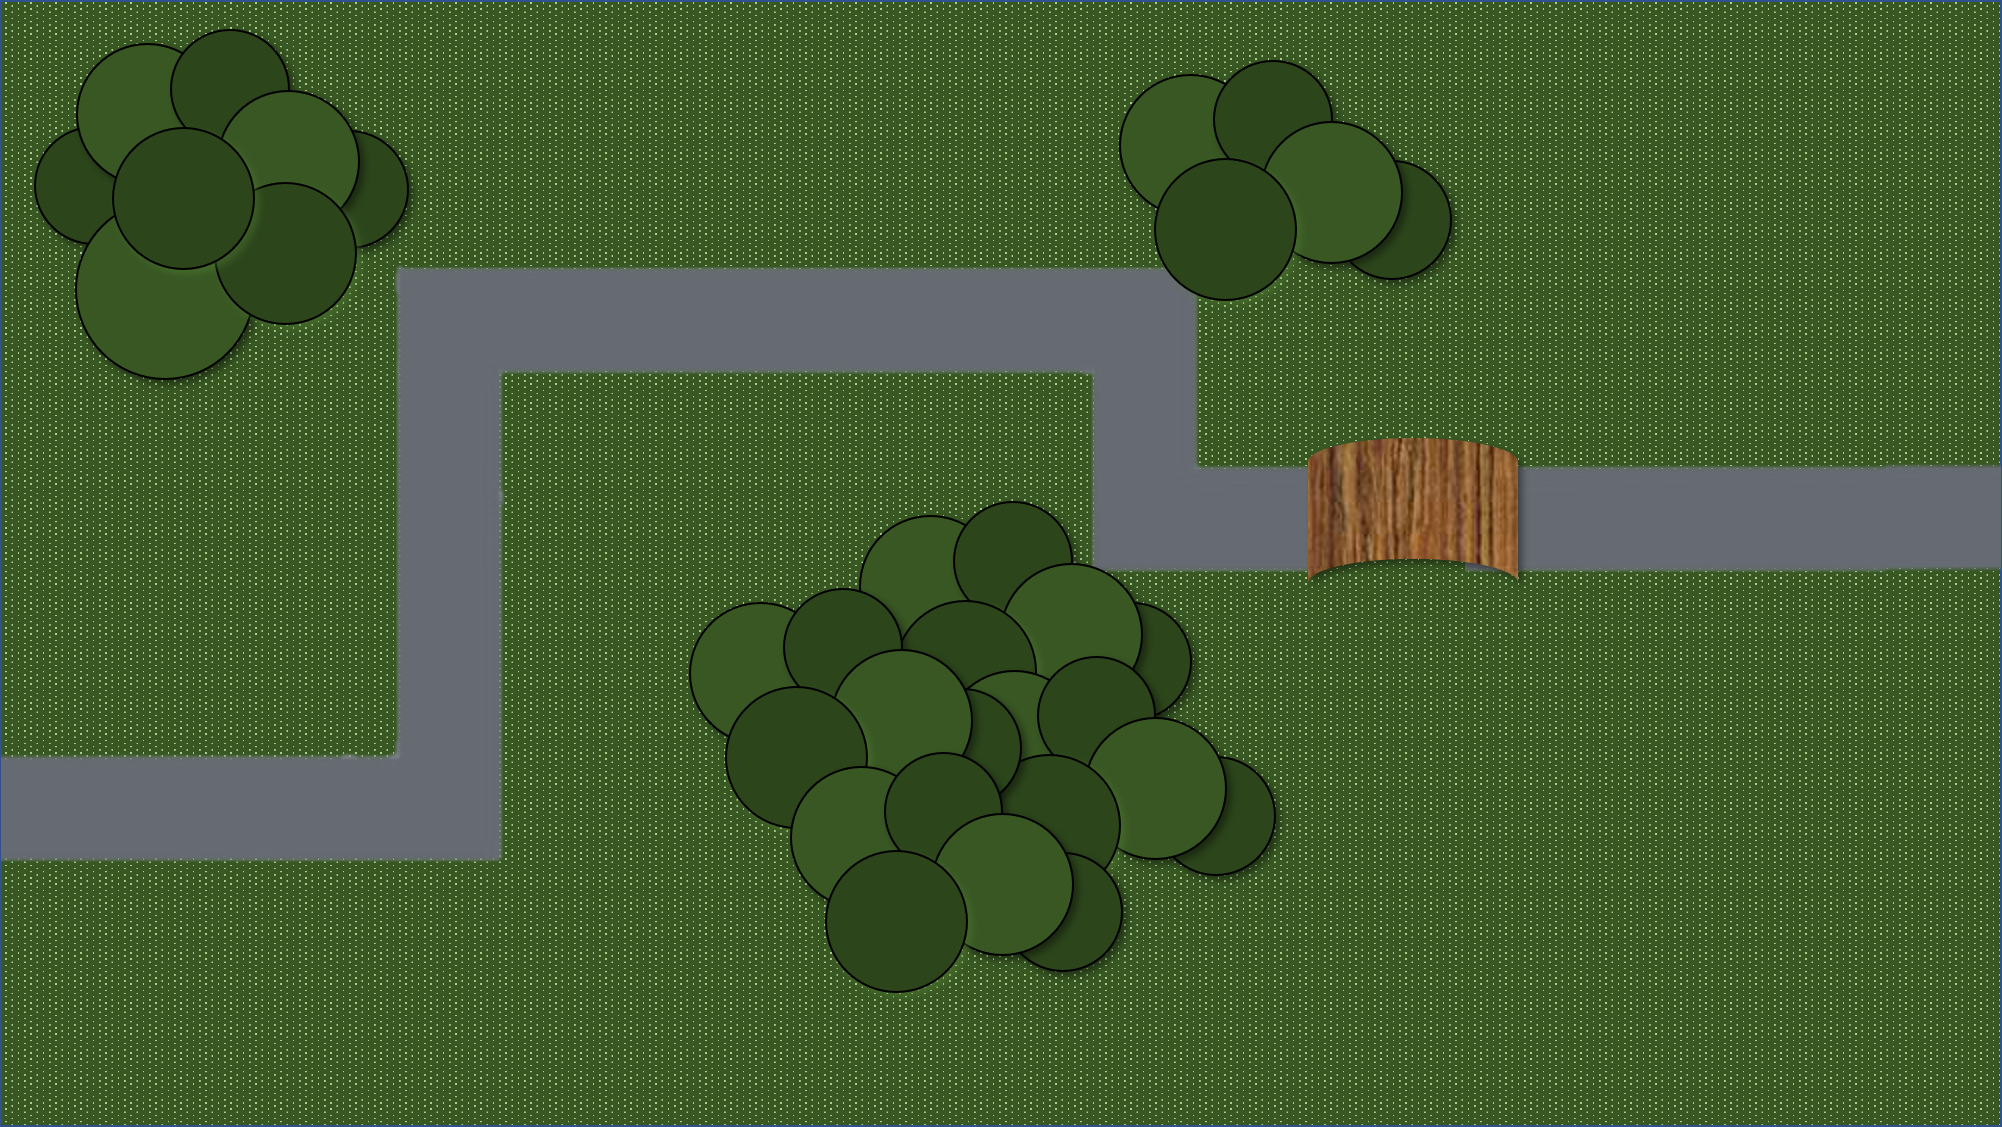
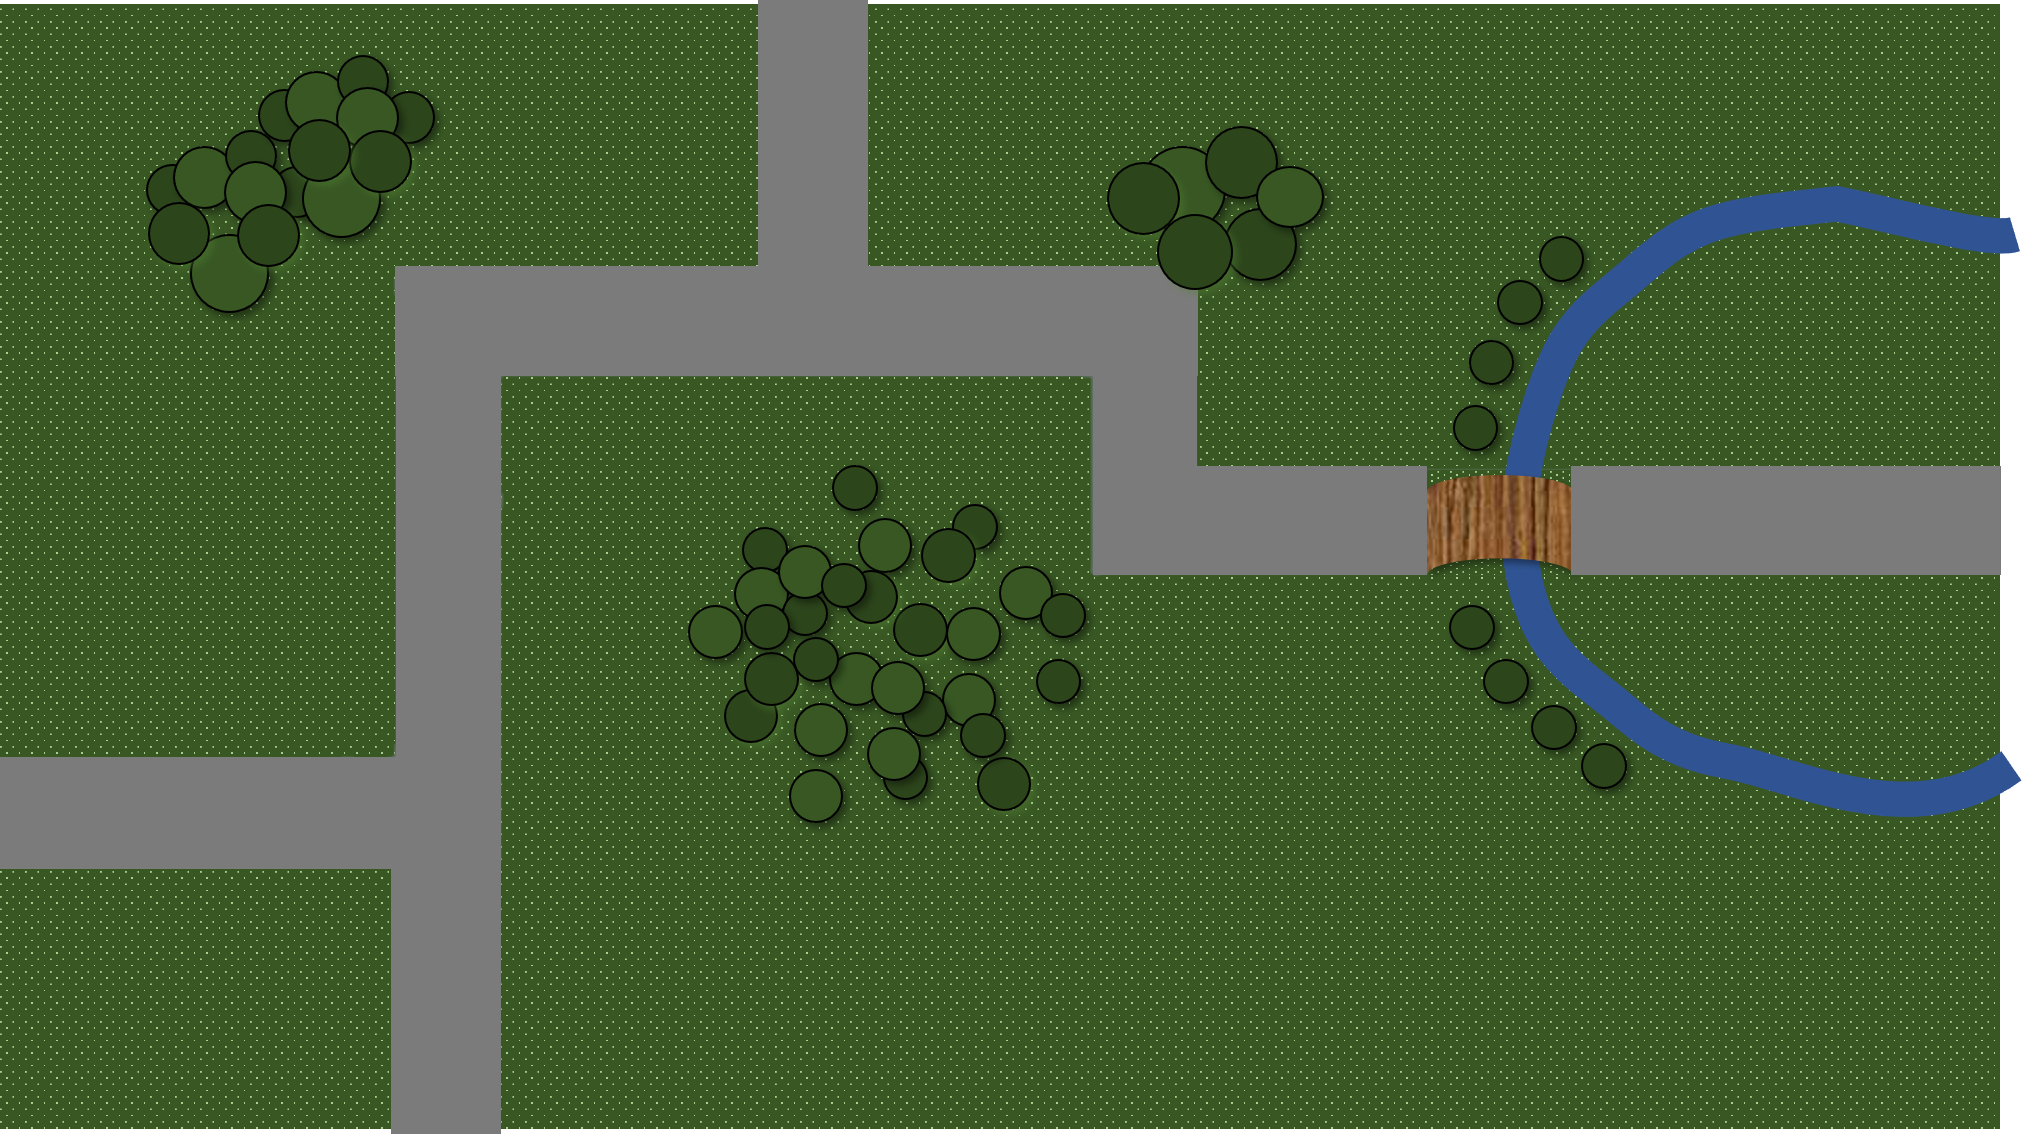
modified button start and quit and the map and the castle

Changed region(s): [[0.0, 0.0, 1.0, 1.0]]

diff --git a/src/screen_menu/init.c b/src/screen_menu/init.c
@@ -33,13 +33,13 @@ sfRenderWindow *init_struct_display(display_t *display, utils_t *utils)
 int init_screen_menu(utils_t *utils, menu_t *screen)
 {
     screen->play_texture = sfTexture_createFromFile
-                ("./utils/imgs/play_button.jpg", NULL);
+                ("./utils/imgs/start.png", NULL);
     screen->play_texture_highlight = sfTexture_createFromFile
-                ("./utils/imgs/play_button_highlight.jpg", NULL);
+                ("./utils/imgs/start_highlight.png", NULL);
     screen->quit_texture = sfTexture_createFromFile
-                ("./utils/imgs/quit_button.jpg", NULL);
+                ("./utils/imgs/quit.png", NULL);
     screen->quit_texture_highlight = sfTexture_createFromFile
-                ("./utils/imgs/quit_button_highlight.jpg", NULL);
+                ("./utils/imgs/quit_highlight.png", NULL);
     if (!screen->play_texture || !screen->quit_texture)
         return 84;
     screen->play_sprite = sfSprite_create();

diff --git a/src/game/display_game.c b/src/game/display_game.c
@@ -36,15 +36,18 @@ void init_terrain(game_t *game)
 
 int init_castle(game_t *game)
 {
-    sfVector2f pos = {980, 180};
-    sfVector2f scale = {0.5, 0.5};
+    sfVector2f pos = {1220, 230};
+    sfVector2f scale = {0.4, 0.4};
+    sfVector2f scale_castle = {0.4, 0.4};
 
     game->castle->sprite = sfSprite_create();
     game->castle->texture = sfTexture_createFromFile
-            ("utils/imgs/castle.jpeg", NULL);
+            ("utils/imgs/Chateau1.png", NULL);
     sfSprite_setScale(game->enemies_one->sprite, scale);
     sfSprite_setScale(game->enemies_two->sprite, scale);
     sfSprite_setScale(game->enemies_three->sprite, scale);
+    sfSprite_setScale(game->castle->sprite, scale_castle);
+    sfSprite_rotate(game->castle->sprite, 90);
     sfSprite_setTexture(game->castle->sprite, game->castle->texture, sfTrue);
     sfSprite_setPosition(game->castle->sprite, pos);
     sfRenderWindow_drawSprite(game->utils->window, game->castle->sprite, NULL);

diff --git a/src/pause_menu/pause_menu.c b/src/pause_menu/pause_menu.c
@@ -9,10 +9,10 @@
 
 int set_position(game_t *game)
 {
-    sfVector2f pos_play = {435, 450};
-    sfVector2f pos_main = {435, 550};
+    sfVector2f pos_play = {435, 430};
+    sfVector2f pos_main = {435, 580};
     sfVector2f scale = {1.5, 1.5};
-    sfVector2f scale_button = {0.855, 0.855};
+    sfVector2f scale_button = {0.8, 0.8};
 
     sfSprite_setScale(game->menu_pause->back_sprite, scale);
     sfSprite_setScale(game->menu_pause->main_sprite, scale_button);
@@ -23,7 +23,7 @@ int set_position(game_t *game)
 int init_pause_menu(game_t *game)
 {
     game->menu_pause->play_texture = sfTexture_createFromFile
-                            ("./utils/imgs/play_button.jpg", NULL);
+                            ("./utils/imgs/start.png", NULL);
     game->menu_pause->main_texture = sfTexture_createFromFile
                             ("./utils/imgs/main_menu.png", NULL);
     game->menu_pause->back_texture = sfTexture_createFromFile

diff --git a/src/screen_menu/display.c b/src/screen_menu/display.c
@@ -23,14 +23,14 @@ int display_menu(game_t *game)
 {
     sfVector2f scale_play;
     sfVector2f scale_quit;
-    scale_play.x = 0.6;
-    scale_play.y = 0.9;
+    scale_play.x = 0.73;
+    scale_play.y = 0.73;
     scale_quit.x = 0.73;
     scale_quit.y = 0.73;
-    game->screen->pos_play.x = 480;
+    game->screen->pos_play.x = 470;
     game->screen->pos_play.y = 470;
     game->screen->pos_quit.x = 470;
-    game->screen->pos_quit.y = 570;
+    game->screen->pos_quit.y = 590;
     sfSprite_setScale(game->screen->play_sprite, scale_play);
     sfSprite_setScale(game->screen->quit_sprite, scale_quit);
     sfSprite_setPosition(game->screen->play_sprite, game->screen->pos_play);

diff --git a/src/pause_menu/text_pause.c b/src/pause_menu/text_pause.c
@@ -9,12 +9,12 @@
 
 void init_text(game_t *game)
 {
-    sfVector2f pos = {520, 150};
+    sfVector2f pos = {470, 150};
 
     game->menu_pause->font = sfFont_createFromFile("./utils/font/horrendo.ttf");
     game->menu_pause->pause_text = sfText_create();
     sfText_setFont(game->menu_pause->pause_text, game->menu_pause->font);
-    sfText_setCharacterSize(game->menu_pause->pause_text, 60);
+    sfText_setCharacterSize(game->menu_pause->pause_text, 90);
     sfText_setString(game->menu_pause->pause_text, "PAUSE");
     sfText_setPosition(game->menu_pause->pause_text, pos);
 }
